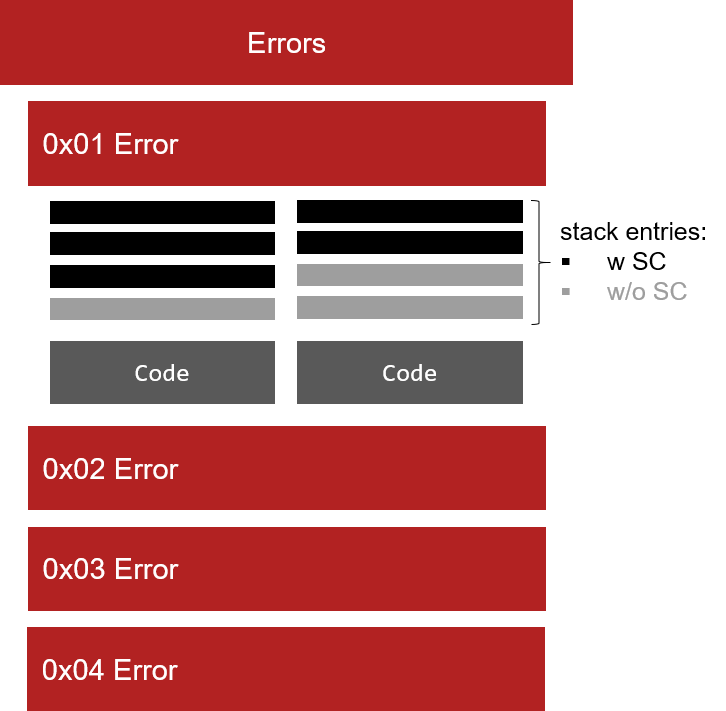
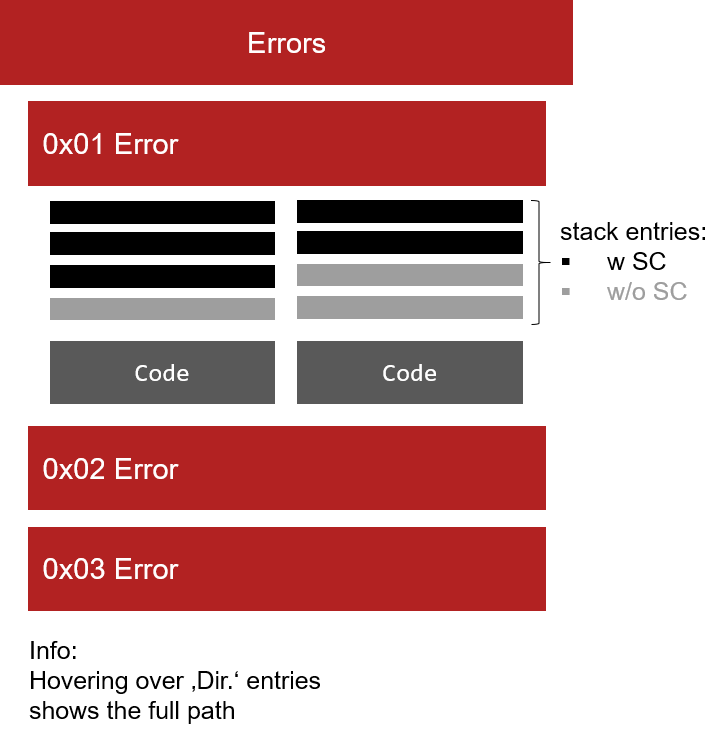
refactor: changed appearance of directory string
As the directory strings can be quite long, they're only fully shown,
when user hovers over the entry

Changed region(s): [[0.0303, 0.2475, 0.9697, 1.0], [0.0, 0.0309, 0.7879, 0.2166]]

diff --git a/templates/css/style.css b/templates/css/style.css
@@ -86,3 +86,31 @@ pre[class*="language-"] {
     border-left: 1px solid black;
     height: 100%;
   }
+
+  .tooltip {
+    position: relative;
+    display: inline-block;
+  }
+  
+  /* Tooltip text */
+  .tooltip .tooltiptext {
+    visibility: hidden;
+    background-color: white;
+    color: black;
+    text-align: left;
+    padding: 5px 5px;
+    border-radius: 0;
+    display:inline-block;
+    white-space: nowrap;
+
+    /* Position the tooltip text - see examples below! */
+    position: absolute;
+    z-index: 1;
+    top: -5px;
+    left: 22px;
+  }
+  
+  /* Show the tooltip text when you mouse over the tooltip container */
+  .tooltip:hover .tooltiptext {
+    visibility: visible;
+  }

diff --git a/drace-gui.py b/drace-gui.py
@@ -110,6 +110,7 @@ class ReportCreator:
         if (frame.find('file')!= None):
             newSnippet = newSnippet.replace('*FILE*', adjText(frame.find('file').text))
             newSnippet = newSnippet.replace('*DIRECTORY*', adjText(frame.find('dir').text))
+            newSnippet = newSnippet.replace('*SHORT_DIR*', adjText(self.__makeShortDir(frame.find('dir').text)))
             newSnippet = newSnippet.replace('*LINE_OF_CODE*', adjText(frame.find('line').text))
             if(codeIndex != -1):
                 newSnippet = newSnippet.replace('*CODE_ID_VAR*', "snippet_"+str(self.__callStackNumber)+"_code")
@@ -121,9 +122,14 @@ class ReportCreator:
         else:
             newSnippet = newSnippet.replace('*FILE*', 'no filename avail.')
             newSnippet = newSnippet.replace('*DIRECTORY*', 'no directory avail.')
+            newSnippet = newSnippet.replace('*SHORT_DIR*', 'no directory avail.')
             newSnippet = newSnippet.replace('*LINE_OF_CODE*', 'no line of code avail.')
 
         self.__snippets += newSnippet #append referenced code snippet
+
+    def __makeShortDir(self, strDir):
+        elements = strDir.split("\\")
+        return elements[0] + "/" + elements[1] + "/.../" + elements[-1]
 
     def __createCallStack(self, errorEntry, position, outputID):
         
@@ -231,7 +237,6 @@ class ReportCreator:
         fig.add_axes(ax)
         plt.savefig(os.path.join(target+'/'+self.__topStackGraphFileName), dpi=300, format='png', bbox_inches='tight', orientation='landscape') # use format='svg' or 'pdf' for vectorial pictures
        
-
     def __createErrorList(self):
         self.__strErrors = str()
         
